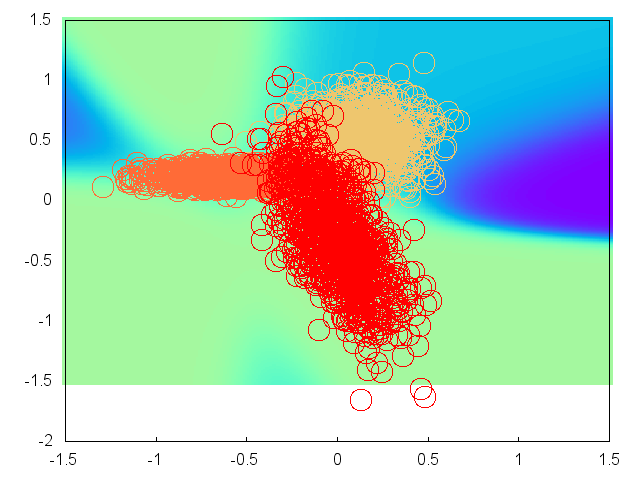
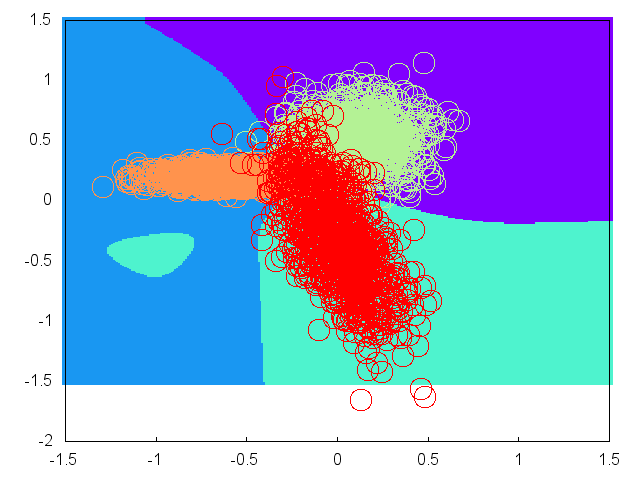
handle classification problem type

diff --git a/src/main/java/pl/edu/pw/mini/bms2/Main.java b/src/main/java/pl/edu/pw/mini/bms2/Main.java
@@ -1,6 +1,7 @@
 package pl.edu.pw.mini.bms2;
 
 import au.com.bytecode.opencsv.CSVReader;
+import javafx.print.Collation;
 import org.neuroph.core.NeuralNetwork;
 import org.neuroph.core.data.DataSet;
 import org.neuroph.core.data.DataSetRow;
@@ -15,6 +16,7 @@ import java.io.FileNotFoundException;
 import java.io.FileReader;
 import java.io.FileWriter;
 import java.io.IOException;
+import java.lang.reflect.Array;
 import java.util.*;
 
 public class Main {
@@ -34,7 +36,7 @@ public class Main {
 
         int problemType = neutralNetworksManager.getProblemType();
         if(problemType == 0){
-            DataSet trainingSet = LoadTrainingSet(1, 1);
+            DataSet trainingSet = Regression_LoadTrainingSet(1, 1);
             trainingSet.shuffle();  //Randomly permutes set
 
             findMaxAndMinVectors(trainingSet);
@@ -42,15 +44,23 @@ public class Main {
             normalizer.normalize(trainingSet);
 
             myNeutralNetwork.learn(trainingSet);
-            TestNetwork(myNeutralNetwork, problemType);
+            Regression_TestNetwork(myNeutralNetwork, 1);
 
         }else if(problemType == 1){
+            DataSet trainingSet = Classification_LoadTrainingSet(2, neutralNetworksManager.outputNeurons());
+            trainingSet.shuffle();  //Randomly permutes set
 
+            findMaxAndMinVectors(trainingSet);
+            RangeNormalizer normalizer = new RangeNormalizer(lowLimit, 1);
+            normalizer.normalize(trainingSet);
+
+            myNeutralNetwork.learn(trainingSet);
+            Classification_TestNetwork(myNeutralNetwork, neutralNetworksManager.outputNeurons());
         }
 
     }
 
-    private static DataSet LoadTrainingSet(int inputSize, int outputSize) {
+    private static DataSet Regression_LoadTrainingSet(int inputSize, int outputSize) {
         boolean noFileError = true;
         DataSet trainingSet = null;
 
@@ -97,7 +107,55 @@ public class Main {
         return trainingSet;
     }
 
-    private static void TestNetwork(NeuralNetwork nnet, int problemType) {
+    private static DataSet Classification_LoadTrainingSet(int inputSize, int outputSize) {
+        boolean noFileError = true;
+        DataSet trainingSet = null;
+
+        while(noFileError) {
+            noFileError = false;
+            System.out.println("Type location of training set file:");
+            String trainingSetFilePath = "./tests/data.train.csv"; //in.next();
+            trainingSet = new DataSet(inputSize, outputSize);
+
+            CSVReader reader = null;
+            try {
+                reader = new CSVReader(new FileReader(trainingSetFilePath));
+
+                String[] nextLine;
+
+                //read headers
+                nextLine = reader.readNext();
+                System.out.println(nextLine);
+                while ((nextLine = reader.readNext()) != null) {
+                    int length = nextLine.length;
+                    double[] input = new double[inputSize];
+
+                    for (int i = 0; i < inputSize; i++) {
+                        input[i] = Double.parseDouble(nextLine[i]);
+                    }
+
+                    double[] output = new double[outputSize];
+                    for(int i=0; i<outputSize; ++i){
+                        output[i] = 0;
+                    }
+                    int tmpOutput = Integer.parseInt(nextLine[inputSize]);
+                    output[tmpOutput-1] = 1;
+
+                    trainingSet.addRow(input, output);
+                }
+            } catch (FileNotFoundException e) {
+                e.printStackTrace();
+                noFileError = false;
+            } catch (IOException e) {
+                e.printStackTrace();
+                noFileError = true;
+            }
+        }
+
+        return trainingSet;
+    }
+
+    private static void Regression_TestNetwork(NeuralNetwork nnet, int outputSize) {
         boolean noFileError = true;
 
         while(noFileError) {
@@ -146,6 +204,77 @@ public class Main {
                     fr.write(String.valueOf(networkOutput[0]) + "\n");
 
                     System.out.println(" Output: " + Arrays.toString(networkOutput));
+                }
+
+                fr.close();
+            } catch (FileNotFoundException e) {
+                e.printStackTrace();
+                noFileError = false;
+            } catch (IOException e) {
+                e.printStackTrace();
+                noFileError = true;
+            }
+        }
+    }
+
+    private static void Classification_TestNetwork(NeuralNetwork nnet, int outputSize) {
+        boolean noFileError = true;
+
+        while(noFileError) {
+            noFileError = false;
+            System.out.println("Type location of test set file:");
+            String testSetFilePath = "tests/data.test.csv";
+            CSVReader reader = null;
+
+            try {
+                reader = new CSVReader(new FileReader(testSetFilePath));
+
+                FileWriter fr = new FileWriter("tests/abc.ans.csv");
+
+                String[] nextLine;
+
+                //read headers
+                nextLine = reader.readNext();
+                System.out.println(nextLine.toString());
+                while ((nextLine = reader.readNext()) != null) {
+                    int length = nextLine.length;
+                    double[] input = new double[length];
+
+                    for (int i = 0; i < length; i++) {
+                        input[i] = Double.parseDouble(nextLine[i]);
+                    }
+                    double[] normalizedInput = normalizeToRange(input, minIn, maxIn);
+                    nnet.setInput(normalizedInput);
+                    nnet.calculate();
+                    double[] networkOutput = nnet.getOutput();
+
+                    double max = -Integer.MAX_VALUE;
+                    int output = 0;
+                    for(int i=0; i<networkOutput.length; ++i){
+                        if(max < networkOutput[i]){
+                            max = networkOutput[i];
+                            output = i+1;
+                        }
+                    }
+
+                    System.out.print("Input: " + Arrays.toString(normalizedInput));
+                    System.out.println("out: " + Arrays.toString(networkOutput));
+
+                    //networkOutput = denormalizeToRange(networkOutput, minOut, maxOut);
+
+                    System.out.print("Input: " + Arrays.toString(input));
+
+                    for (int i = 0; i < length; i++) {
+                        if(i>0) {
+                            fr.write(",");
+                        }
+                        fr.write(String.valueOf(input[i]));
+                    }
+                    fr.write(",");
+
+                    fr.write(String.valueOf(output) + "\n");
+
+                    System.out.println(" Output: " + output);
                 }
 
                 fr.close();

diff --git a/src/main/java/pl/edu/pw/mini/bms2/NeutralNetworksManager.java b/src/main/java/pl/edu/pw/mini/bms2/NeutralNetworksManager.java
@@ -18,6 +18,7 @@ public class NeutralNetworksManager {
 
     private double lowLimit = 0.0d;
     private int problemType = 0;
+    private int outputNeurons = 0;
 
     public NeuralNetwork run(){
 
@@ -113,9 +114,9 @@ public class NeutralNetworksManager {
         }
         System.out.println("hiddenLayers: " + networkProperties.getProperty("hiddenLayers"));
 
-        neuronsInLayers.add(Integer.parseInt(
-                            networkProperties.getProperty("outputNeurons")));
-        System.out.println("outputNeurons: " + networkProperties.getProperty("outputNeurons"));
+        outputNeurons = Integer.parseInt(networkProperties.getProperty("outputNeurons"));
+        neuronsInLayers.add(outputNeurons);
+        System.out.println("outputNeurons: " + outputNeurons);
 
         momentumBackpropagation.setLearningRate(
                 Double.valueOf(networkProperties.getProperty("learningRate"))
@@ -149,5 +150,9 @@ public class NeutralNetworksManager {
 
     public int getProblemType() {
         return problemType;
+    }
+
+    public int outputNeurons() {
+        return outputNeurons;
     }
 }
